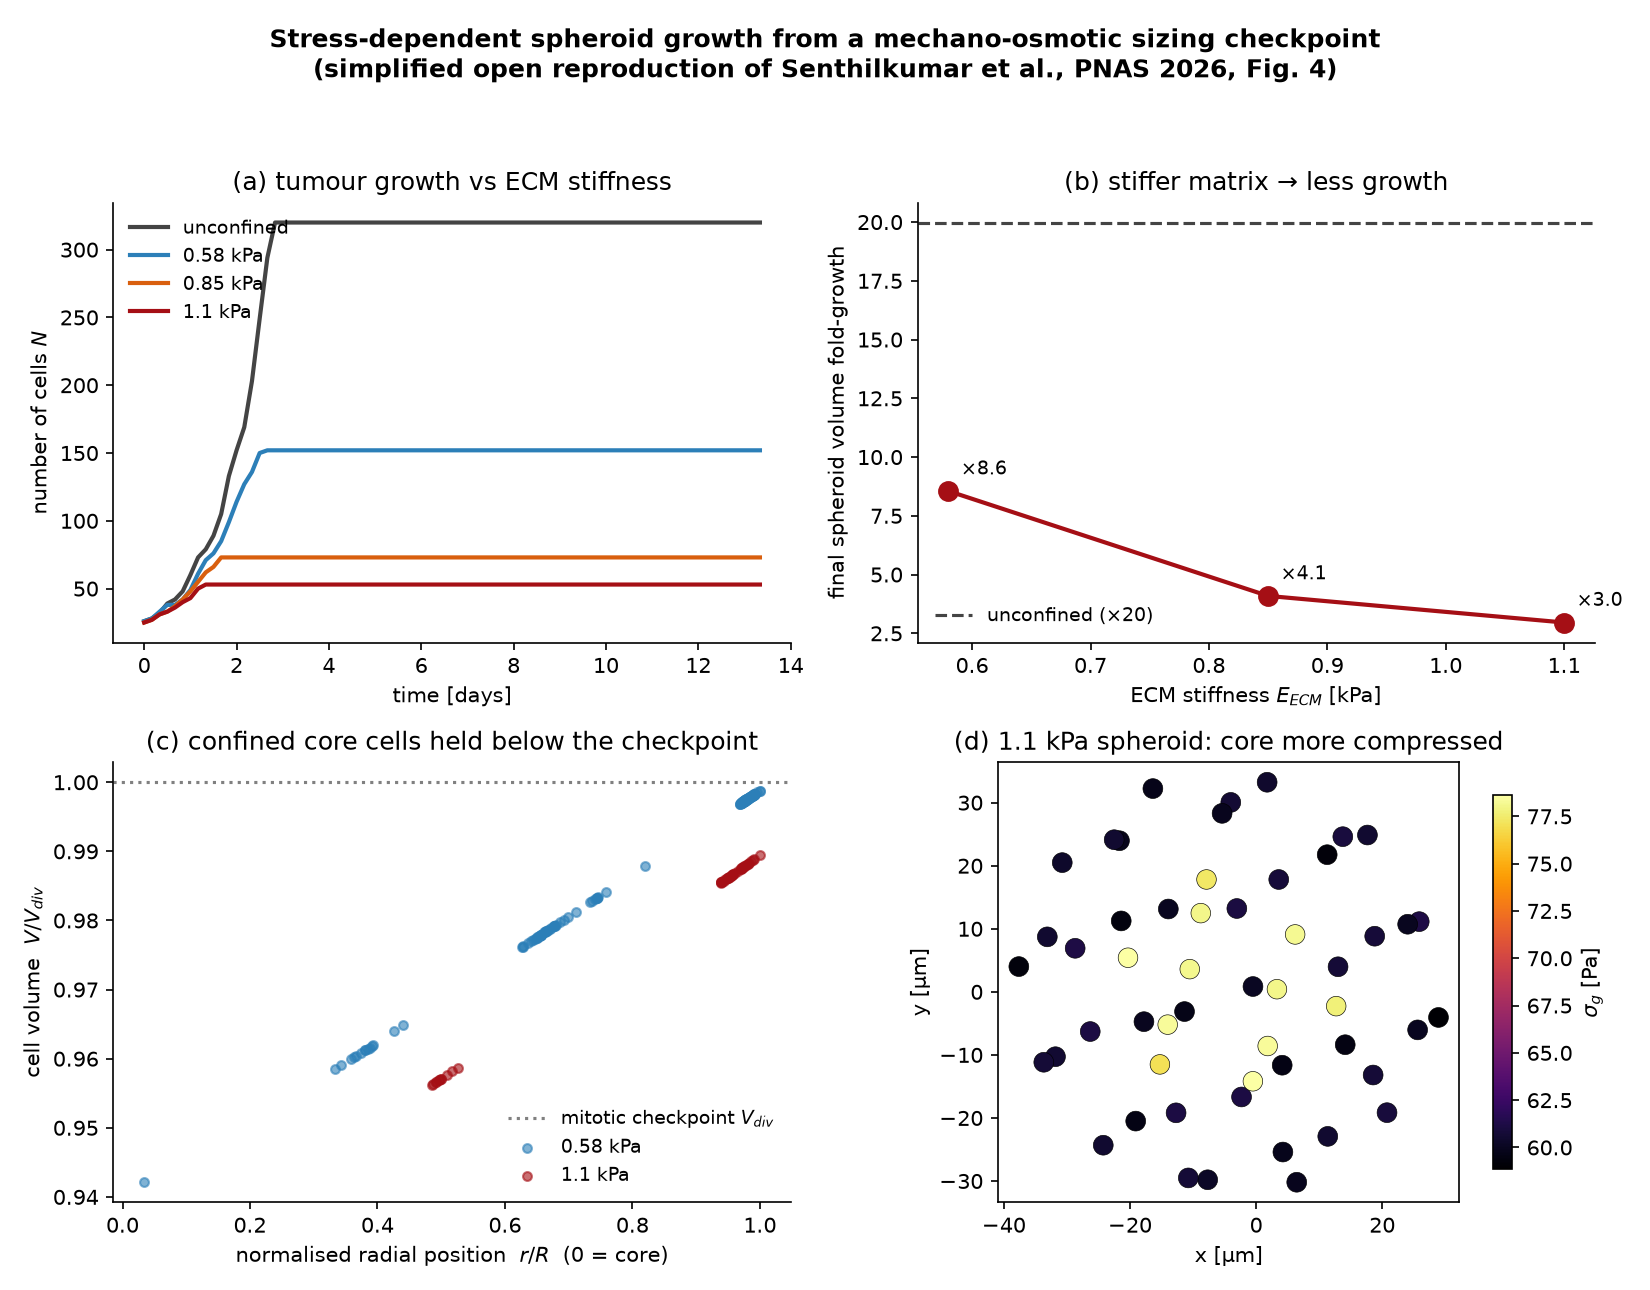
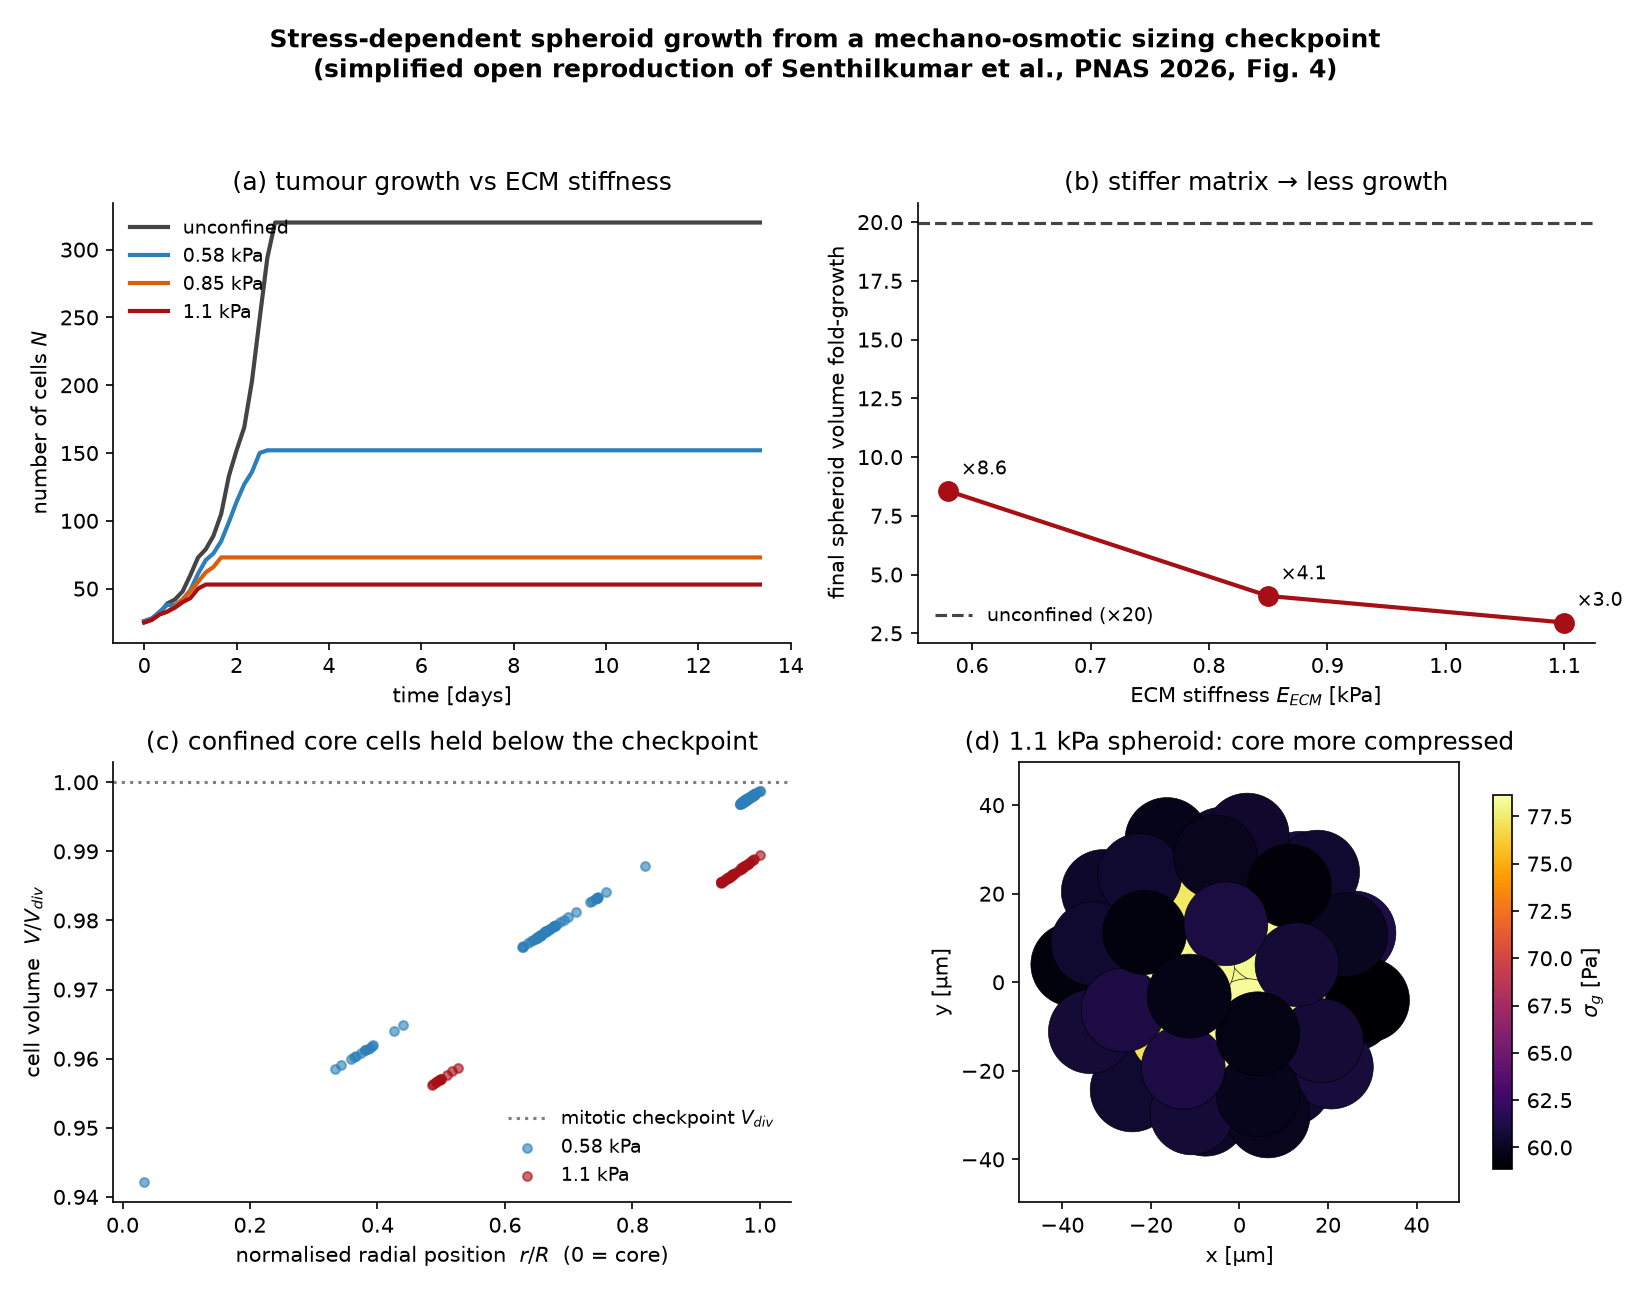
Render spheroid cells true-to-scale so contact and relative size are faithful
The previous figure/GIF drew cells as fixed-size scatter dots whose on-screen
size was unrelated to the real cell radius, so a packed, in-contact spheroid
(nearest-neighbour gaps are slightly negative; 100% of cells touch a neighbour)
looked like detached floating points. Redraw each cell as a true-to-scale disc
(radius in micrometres) via EllipseCollection, back-to-front, on a shared axis
scale across panels. The unconfined spheroid now reads as a large dense cluster
and stiffer matrices as progressively smaller, stress-loaded clusters, with
cells visibly in contact. Model/physics unchanged.

Claude-Session: https://claude.ai/code/session_01Q2CpZDVSK1ZjT2mQZdCRqD

diff --git a/src/animate_spheroid.py b/src/animate_spheroid.py
@@ -2,9 +2,10 @@
 Animate the simplified open spheroid model: unconfined vs ECM-confined tumour
 growth, cells coloured by their mechano-osmotic compressive stress sigma_g.
 
-The unconfined spheroid keeps proliferating; stiffer matrices build hydrostatic
-stress (bright) that holds cells below the mitotic volume checkpoint, arresting
-growth -- the paper's stress-dependent-growth result, rendered as a movie.
+Cells are drawn as TRUE-TO-SCALE discs (radius = real cell radius in micrometres,
+on a shared axis scale across panels and frames), so contact, packing and the
+relative spheroid sizes are shown faithfully -- the unconfined spheroid is a
+large, dense, touching cluster; stiffer matrices stay small.
 
 Run:  python animate_spheroid.py   ->  writes ../figures/spheroid_growth.gif
 (uses matplotlib's Pillow writer; no ffmpeg required)
@@ -19,6 +20,7 @@ import matplotlib
 matplotlib.use("Agg")
 import matplotlib.pyplot as plt
 from matplotlib.animation import FuncAnimation, PillowWriter
+from matplotlib.collections import EllipseCollection
 from matplotlib import cm, colors
 
 from spheroid_model import SpheroidParams, run_conditions
@@ -27,43 +29,49 @@ FIGDIR = os.path.join(os.path.dirname(__file__), "..", "figures")
 PANELS = ["unconfined", "0.58 kPa", "0.85 kPa", "1.1 kPa"]
 
 
+def _draw_spheroid(ax, pos, r, sg, L, norm, cmap):
+    """Draw one spheroid as true-to-scale discs (xy projection, back-to-front)."""
+    ax.clear()
+    order = np.argsort(pos[:, 2])                 # back (-z) first, front (+z) on top
+    ec = EllipseCollection(widths=2 * r[order], heights=2 * r[order], angles=0,
+                           units="xy", offsets=pos[order, :2],
+                           transOffset=ax.transData, cmap=cmap, norm=norm,
+                           edgecolors="k", linewidths=0.25)
+    ec.set_array(sg[order])
+    ax.add_collection(ec)
+    ax.set_xlim(-L, L); ax.set_ylim(-L, L)
+    ax.set_aspect("equal")
+    ax.set_xticks([]); ax.set_yticks([])
+
+
 def main(n_frames: int = 40, fps: int = 8):
     os.makedirs(FIGDIR, exist_ok=True)
     sp = SpheroidParams()
     res = run_conditions(sp, include_free=True)
 
-    # common time axis (all conditions share the same recorded frames)
     n_rec = min(len(res[k].history) for k in PANELS)
     idx = np.linspace(0, n_rec - 1, min(n_frames, n_rec)).astype(int)
 
-    # shared stress colour scale and per-panel spatial extent
     norm = colors.Normalize(vmin=0.0, vmax=85.0)
     cmap = cm.inferno
-    extent = {k: max(np.linalg.norm(res[k].history[idx[-1]]["pos"], axis=1).max(),
-                     1.0) * 1.15 for k in PANELS}
+    # SHARED scale across panels so relative spheroid sizes are honest
+    L = 1.05 * max(
+        (np.linalg.norm(res[k].history[idx[-1]]["pos"][:, :2], axis=1)
+         + res[k].history[idx[-1]]["r"]).max() for k in PANELS)
 
-    fig = plt.figure(figsize=(14, 4.2))
-    axes = [fig.add_subplot(1, 4, i + 1, projection="3d") for i in range(4)]
+    fig, axes = plt.subplots(1, 4, figsize=(14, 4.2))
     fig.suptitle("Mechano-osmotic spheroid growth: unconfined vs ECM confinement "
-                 "(cells coloured by compressive stress $\\sigma_g$)",
+                 "(true-to-scale cells, coloured by stress $\\sigma_g$)",
                  fontsize=12, fontweight="bold")
     sm = cm.ScalarMappable(norm=norm, cmap=cmap)
     cbar = fig.colorbar(sm, ax=axes, shrink=0.7, pad=0.01)
     cbar.set_label(r"$\sigma_g$ [Pa]")
 
-    def draw(frame_i):
-        fr = idx[frame_i]
+    def draw(fi):
+        fr = idx[fi]
         for ax, label in zip(axes, PANELS):
-            ax.clear()
             snap = res[label].history[fr]
-            pos, sg, r = snap["pos"], snap["sigma_g"], snap["r"]
-            ax.scatter(pos[:, 0], pos[:, 1], pos[:, 2],
-                       s=24 * (r / r.mean()) ** 2, c=sg, cmap=cmap, norm=norm,
-                       edgecolors="k", linewidths=0.2, depthshade=True)
-            L = extent[label]
-            ax.set_xlim(-L, L); ax.set_ylim(-L, L); ax.set_zlim(-L, L)
-            ax.set_box_aspect((1, 1, 1))
-            ax.set_xticks([]); ax.set_yticks([]); ax.set_zticks([])
+            _draw_spheroid(ax, snap["pos"], snap["r"], snap["sigma_g"], L, norm, cmap)
             ax.set_title(f"{label}\n$t$={snap['t']/24:.0f} d,  $N$={snap['N']}",
                          fontsize=10)
         return axes
@@ -72,7 +80,7 @@ def main(n_frames: int = 40, fps: int = 8):
     out = os.path.join(FIGDIR, "spheroid_growth.gif")
     anim.save(out, writer=PillowWriter(fps=fps), dpi=90)
     plt.close(fig)
-    print(f"wrote {out}  ({len(idx)} frames)")
+    print(f"wrote {out}  ({len(idx)} frames, shared scale L={L:.0f} um)")
 
 
 if __name__ == "__main__":

diff --git a/src/figure4.py b/src/figure4.py
@@ -99,18 +99,24 @@ def main():
     c.legend(frameon=False, fontsize=9)
     c.spines[["top", "right"]].set_visible(False)
 
-    # (d) snapshot of the stiffest spheroid, cells coloured by stress -------
+    # (d) snapshot of the stiffest spheroid, true-to-scale cells -----------
+    from matplotlib.collections import EllipseCollection
     d = ax[1, 1]
     s = res["1.1 kPa"]
     pos, sg, r = s.pos, s.sigma_g, s.r
-    order = np.argsort(pos[:, 2])                    # draw back-to-front
-    sc = d.scatter(pos[order, 0], pos[order, 1],
-                   s=90 * (r[order] / r.mean()) ** 2,
-                   c=sg[order], cmap="inferno", edgecolors="k", linewidths=0.3)
+    order = np.argsort(pos[:, 2])                    # back-to-front
+    ec = EllipseCollection(widths=2 * r[order], heights=2 * r[order], angles=0,
+                           units="xy", offsets=pos[order, :2],
+                           transOffset=d.transData, cmap="inferno",
+                           edgecolors="k", linewidths=0.3)
+    ec.set_array(sg[order])
+    d.add_collection(ec)
+    L = 1.05 * (np.linalg.norm(pos[:, :2], axis=1) + r).max()
+    d.set_xlim(-L, L); d.set_ylim(-L, L)
     d.set_aspect("equal")
     d.set_xlabel("x [µm]"); d.set_ylabel("y [µm]")
     d.set_title("(d) 1.1 kPa spheroid: core more compressed")
-    cb = fig.colorbar(sc, ax=d, shrink=0.85)
+    cb = fig.colorbar(ec, ax=d, shrink=0.85)
     cb.set_label(r"$\sigma_g$ [Pa]")
 
     fig.tight_layout(rect=[0, 0, 1, 0.95])
